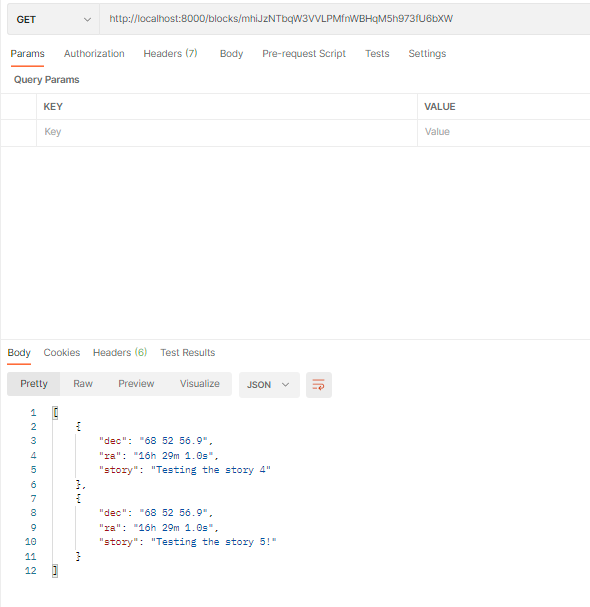
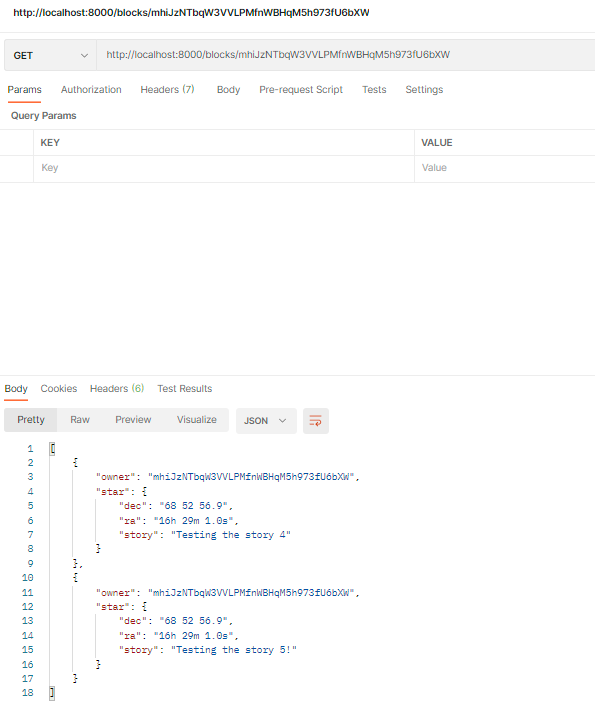
Corrected submission post-review

diff --git a/src/blockchain.js b/src/blockchain.js
@@ -76,7 +76,7 @@ class Blockchain {
                 self.chain.push(block);        
                 self.height += 1;
 
-                let chainIsValid = (await self.validateChain()).every(v => v == true)
+                let chainIsValid = (await self.validateChain()).length == 0
                 if(chainIsValid) {
                     resolve(block)
                 }
@@ -194,7 +194,9 @@ class Blockchain {
         let self = this;
         let stars = [];
         return new Promise((resolve, reject) => {
-            resolve(self.chain.map(x=>x.getBData()).filter(x=>x.address==address).map(x=>x.star))
+            resolve(self.chain.map(x=>x.getBData()).filter(x=>x.address==address)
+                    .map((x) => { return {owner:x.address, star:x.star} })
+                )
         });
     }
 
@@ -208,16 +210,10 @@ class Blockchain {
         let self = this;
         let errorLog = [];
         return new Promise(async (resolve, reject) => {
-            let blocksAreValid = (await Promise.all(self.chain.map(b => b.validate()))) //.every(v => v == true)
-            let prevHashAreValid = [true].concat(self.chain.filter(blk => blk.height>0).map(blk => self.chain[blk.height-1].hash == blk.previousBlockHash)) //.every(v => v == true)            
-            let validList = blocksAreValid.map((e, i) => e && prevHashAreValid[i])            
-            if(validList.every(v => v == true)){
-                resolve(validList)
-            }
-            else {
-                reject(validList)
-            }
-            
+            let blocksAreValid = (await Promise.all(self.chain.map(b => b.validate())))
+            let prevHashAreValid = [true].concat(self.chain.filter(blk => blk.height>0).map(blk => self.chain[blk.height-1].hash == blk.previousBlockHash))
+            let invalidList = self.chain.map(b => b.height).filter((e, i) => !blocksAreValid[i] || !prevHashAreValid[i]) // blocksAreValid.map((e, i) => e && prevHashAreValid[i])            
+            resolve(invalidList)
         });
     }
 

diff --git a/src/block.js b/src/block.js
@@ -42,20 +42,16 @@ class Block {
             let currHash = self.hash;
             // Recalculate the hash of the Block
             // Comparing if the hashes changed
-            // Returning the Block is not valid
-            let testBlock = new Block("");
-            testBlock.body = self.body;
-            testBlock.height = self.height;
-            testBlock.previousBlockHash = self.previousBlockHash;
-            testBlock.time = self.time;
-            let newHash = SHA256(JSON.stringify(testBlock)).toString();            
+            // Returning the Block is not valid            
+            let cloneBlock = {...self}
+            cloneBlock.hash = null
+            let newHash = SHA256(JSON.stringify(cloneBlock)).toString();            
             
             if(currHash == newHash) {
                 resolve(true);
             }
-            // Returning the Block is valid
             else {
-                reject(false);
+                resolve(false);
             }
         });
     }

diff --git a/test.js b/test.js
@@ -35,5 +35,7 @@ const Blockchain = require('./src/blockchain.js');
     console.log(`block valid: ${await (await blockchain.getBlockByHeight(1)).validate()}`)
     console.log(blockchain.chain)
     console.log(`chain valid: ${await blockchain.validateChain()}`)
+
+    console.log(await blockchain.getStarsByWalletAddress('mhiJzNTbqW3VVLPMfnWBHqM5h973fU6bXW'))
     
 })();
